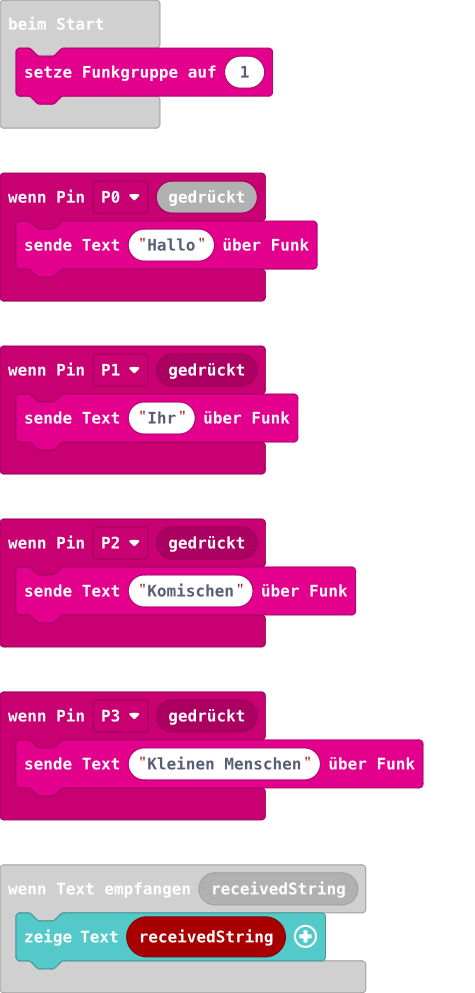
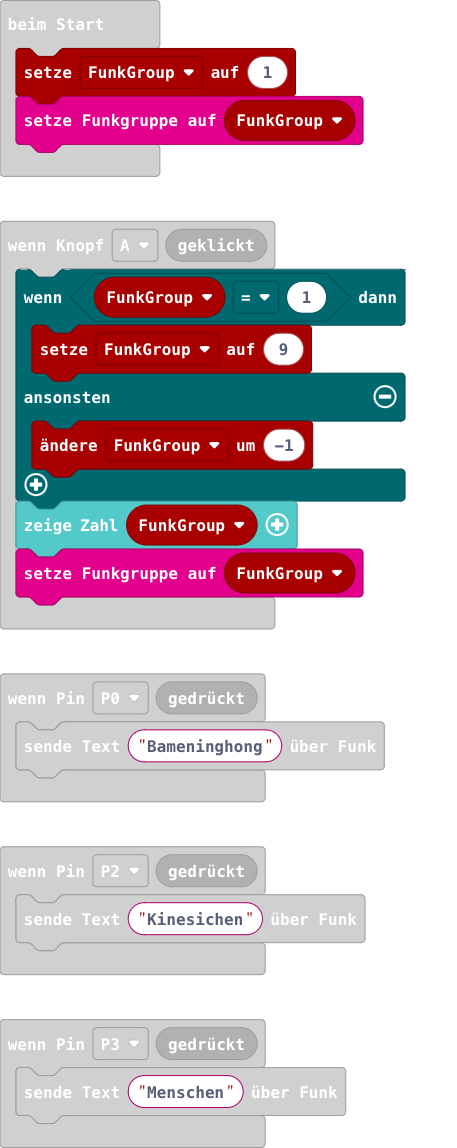
Aktualisiere main.blocks, main.ts

diff --git a/main.ts b/main.ts
@@ -2,18 +2,26 @@ input.onPinTouchEvent(TouchPin.P1, input.buttonEventDown(), function () {
     radio.sendString("Ihr")
 })
 input.onButtonEvent(Button.A, input.buttonEventClick(), function () {
-	
+    if (FunkGroup == 1) {
+        FunkGroup = 9
+    } else {
+        FunkGroup += -1
+    }
+    basic.showNumber(FunkGroup)
+    radio.setGroup(FunkGroup)
 })
 radio.onReceivedString(function (receivedString) {
     basic.showString(receivedString)
 })
 input.onPinTouchEvent(TouchPin.P0, input.buttonEventDown(), function () {
-    radio.sendString("Hallo")
+    radio.sendString("Bameninghong")
 })
 input.onPinTouchEvent(TouchPin.P2, input.buttonEventDown(), function () {
-    radio.sendString("Komischen")
+    radio.sendString("Kinesichen")
 })
 input.onPinTouchEvent(TouchPin.P3, input.buttonEventDown(), function () {
-    radio.sendString("Kleinen Menschen")
+    radio.sendString("Menschen")
 })
-radio.setGroup(1)
+let FunkGroup = 0
+FunkGroup = 1
+radio.setGroup(FunkGroup)
